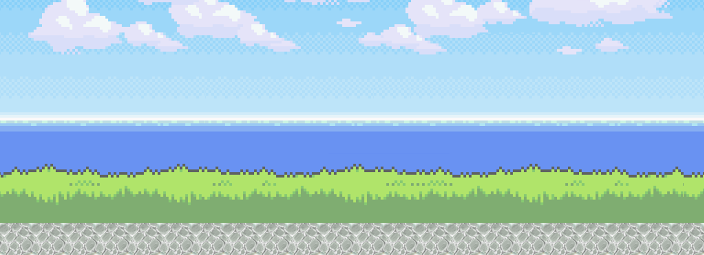
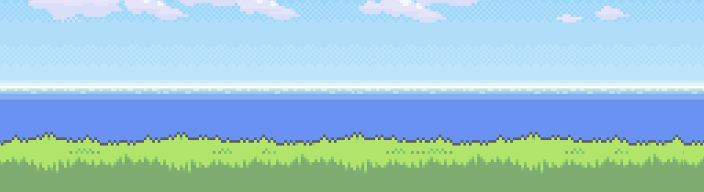
Facu - PODVI - Adds aimbar logic, enhanced backgrounds and tileset

diff --git a/public/js/play.js b/public/js/play.js
@@ -4,6 +4,8 @@ var playState = {
         // Creates world (loads tilemap)
         this.createWorld();
         
+        this.keypressEnabled = true;
+        
         // Create player
         this.player = game.add.sprite(50, game.world.centerY, 'player');
         this.player.anchor.setTo(0.5, 0.5);
@@ -17,15 +19,28 @@ var playState = {
         game.physics.arcade.enable(this.player);
         this.player.body.gravity.y = 400;
         
+        game.camera.follow(this.player, Phaser.Camera.FOLLOW_PLATFORMER);
+        
         // Adds new key to control the player
         this.keys = {
             space: game.input.keyboard.addKey(Phaser.Keyboard.SPACEBAR),
         };
         
         this.keys.space.onDown.add(this.movePlayer, this);
+        
+        // Adds aim bar and aim pointer
+        this.aimbar = game.add.sprite(game.cache
+            .getImage('aimbar').width /2 + 10, 
+            game.cache.getImage('aimbar').height/2 + 10, 'aimbar');
+        this.aimbar.anchor.setTo(0.5, 0.5);
+        this.aimbar.fixedToCamera = true;
+        this.aimpointer = game.add.sprite(14, 20, 'aimpointer');
+        this.aimpointer.anchor.setTo(0.5, 0.5);
+        this.aimpointer.fixedToCamera = true;
+        this.setAimpointerAnimation();
 	},
 
-	update: function() {
+	update: function() {   
         game.physics.arcade.collide(this.player, this.layer);
 
         // Deaccelerates player every frame
@@ -38,8 +53,9 @@ var playState = {
 	},
     
     createWorld: function () {
-        this.background = game.add.tileSprite(0, 1, 
-            game.stage.bounds.width, 
+        game.world.setBounds(0, 0, 6400, 320);
+        this.background = game.add.tileSprite(0, 0, 
+            game.world.bounds.width, 
             game.cache.getImage('background').height,
             'background');
         
@@ -47,16 +63,44 @@ var playState = {
         this.map.addTilesetImage('pista1_tileset');
         this.layer = this.map.createLayer('pista1');
         
-        //this.layer.resizeWorld();
-        // TODO: check if above line is necessary
         this.map.setCollision(2);
-        game.world.setBounds(0, 0, 1280, 320);
+        
+    },
+        
+    movePlayer: function () {
+        if(!this.keypressEnabled) return;
+        
+        this.player.animations.play('run');
+        
+        this.aimtween.stop();
+        
+        // Adds tiny animation to the aim pointer when stopped
+        game.add.tween(this.aimpointer.scale).to({x: 1.2, y: 1.2}, 200)
+        .to({x: 1, y: 1}, 200).start();
+        
+        // Depending on the position on the bar, accels [~10 -> ~100] * 200
+        var pointerVal = this.aimpointer.cameraOffset.x;
+        var barWidth = game.cache.getImage('aimbar').width;
+        var accel = (pointerVal < barWidth / 2)?
+            pointerVal : barWidth - pointerVal;
+        this.player.body.acceleration.x = Math.abs(accel) * 200;
+        
+        // Disables spacebar and counts seconds to reactivate
+        this.keypressEnabled = false;
+        game.time.events.add(Phaser.Timer.SECOND * 2, this.reEnableAimbar, this);
     },
     
-    movePlayer: function () {
-        this.player.animations.play('run');
-
-        // This value should be replaced with the value fetched from the aimbar
-        this.player.body.acceleration.x = 5000;
+    reEnableAimbar: function () {
+        this.setAimpointerAnimation();
+        this.keypressEnabled = true;
+    },
+    
+    setAimpointerAnimation: function () {
+        // Adds animation to aim pointer
+        this.aimpointer.cameraOffset.setTo(14, 20);
+        this.aimtween = game.add.tween(this.aimpointer.cameraOffset)
+        .to({x: 208}, 600, Phaser.Easing.Sinusoidal.Out, 
+            true, 0, Number.MAX_VALUE, true);
+        this.aimtween.start();
     },
 };

diff --git a/public/js/menu.js b/public/js/menu.js
@@ -2,11 +2,13 @@ var menuState = {
 
 	create: function() { 
 		// Name of the game
-		var nameLabel = game.add.text(game.world.centerX, 80, 'Name', { font: '50px Arial', fill: '#ffffff' });
+		var nameLabel = game.add.text(game.world.centerX, 80, 'Name', 
+            { font: '50px Arial', fill: '#ffffff' });
 		nameLabel.anchor.setTo(0.5, 0.5);
 
 		// How to start the game
-		var startLabel = game.add.text(game.world.centerX, game.world.height-80, 'press the up arrow key to start', { font: '25px Arial', fill: '#ffffff' });
+		var startLabel = game.add.text(game.world.centerX, game.world.height-80, 
+            'press the spacebar to start', { font: '25px Arial', fill: '#ffffff' });
 		startLabel.anchor.setTo(0.5, 0.5);	
 		game.add.tween(startLabel).to({angle: -2}, 500).to({angle:2}, 500).loop().start(); 
 
@@ -18,8 +20,8 @@ var menuState = {
 		}
 
 		// Start the game when the up arrow key is pressed
-		var upKey = game.input.keyboard.addKey(Phaser.Keyboard.UP);
-		upKey.onDown.addOnce(this.start, this);
+		var spaceKey = game.input.keyboard.addKey(Phaser.Keyboard.SPACEBAR);
+        spaceKey.onDown.addOnce(this.start, this);
 	},
 
 	toggleSound: function() {

diff --git a/public/js/load.js b/public/js/load.js
@@ -16,6 +16,8 @@ var loadState = {
         game.load.tilemap('pista1', 'assets/pista1.json', null, Phaser.Tilemap.TILED_JSON);
         game.load.image('pista1_tileset', 'assets/pista1_tileset.png');
         game.load.image('background', 'assets/background.png');
+        game.load.image('aimbar', 'assets/aimbar.png');
+        game.load.image('aimpointer', 'assets/aimpointer.png');
 		// ...
 	},
 
